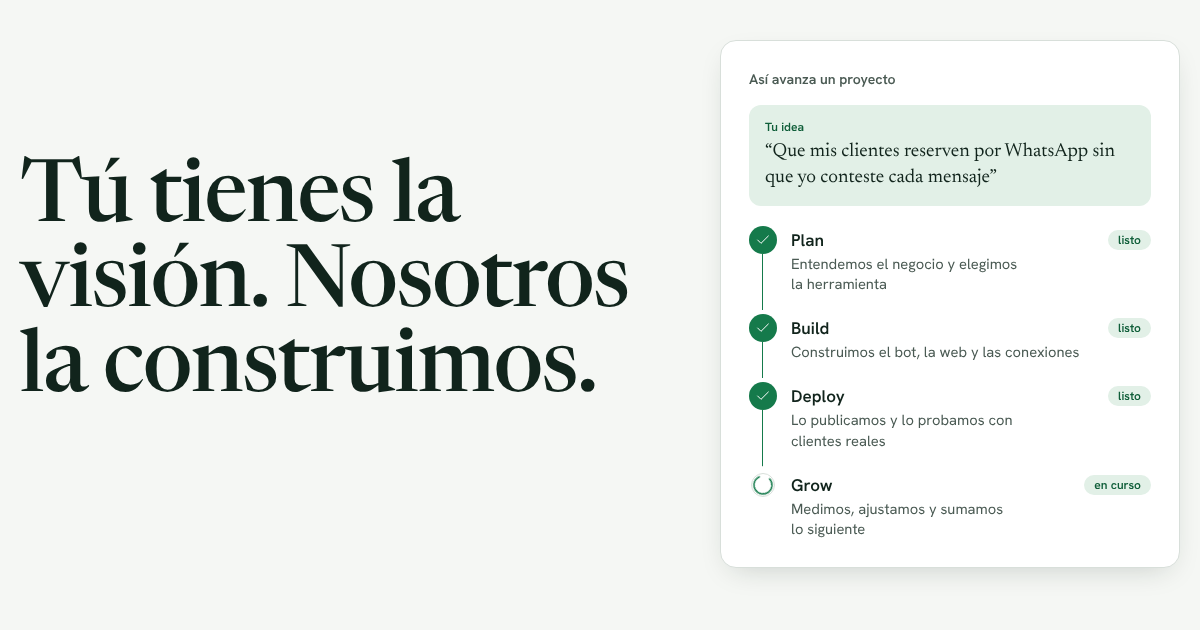
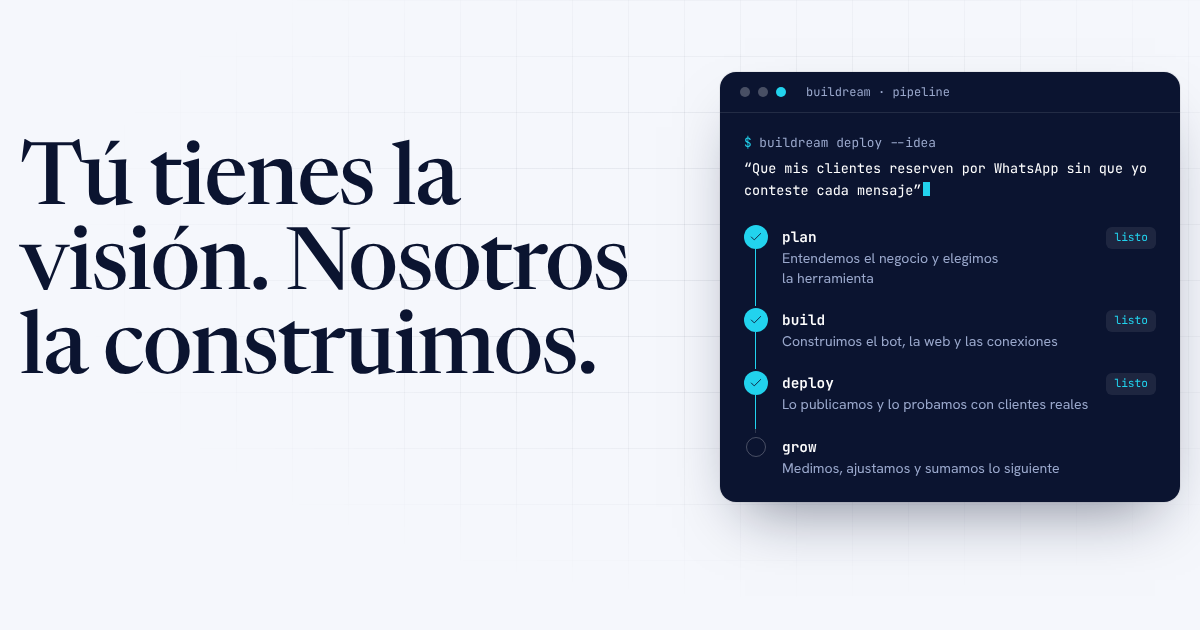
style: paleta Azul eléctrico (azul noche, azul eléctrico y cian)
Claude-Session: https://claude.ai/code/session_016B3hF799nehxMLRgw1vPta

diff --git a/src/styles/global.css b/src/styles/global.css
@@ -5,26 +5,26 @@
 
 /* Design tokens — see DESIGN.md */
 @theme {
-  --color-paper: #f5f7f4;
+  --color-paper: #f5f7fc;
   --color-surface: #ffffff;
-  --color-ink: #11241c;
-  --color-muted: #4a5a53;
-  --color-line: #d8dfda;
-  --color-accent: #157a4b;
-  --color-accent-strong: #0f5e39;
-  --color-accent-soft: #e2f0e7;
-  --color-band: #0f2a20;
-  --color-band-muted: #a9bdb3;
+  --color-ink: #0b1430;
+  --color-muted: #4a5878;
+  --color-line: #d9dfec;
+  --color-accent: #2f5bff;
+  --color-accent-strong: #1e3fd6;
+  --color-accent-soft: #e6ecff;
+  --color-band: #0b1430;
+  --color-band-muted: #9aa8cc;
 
   --font-display: 'Newsreader Variable', 'Iowan Old Style', Georgia, serif;
   --font-sans: 'Hanken Grotesk Variable', ui-sans-serif, system-ui, sans-serif;
   --font-mono: 'JetBrains Mono Variable', ui-monospace, 'Cascadia Code', monospace;
-  --color-signal: #4fd18b;
+  --color-signal: #22d3ee;
 
   --radius-control: 0.5rem;
   --radius-panel: 1rem;
 
-  --shadow-lift: 0 10px 30px -12px rgb(17 36 28 / 0.22);
+  --shadow-lift: 0 10px 30px -12px rgb(11 20 48 / 0.22);
   --ease-out-expo: cubic-bezier(0.16, 1, 0.3, 1);
 }
 
@@ -33,7 +33,7 @@
     scroll-behavior: smooth;
     scroll-padding-top: 5rem;
     -webkit-text-size-adjust: 100%;
-    scrollbar-color: #9fb1a8 var(--color-paper);
+    scrollbar-color: #a3afc9 var(--color-paper);
   }
   body {
     background: var(--color-paper);
@@ -54,7 +54,7 @@
     border-radius: 4px;
   }
   .on-band :focus-visible {
-    outline-color: #8fd6b0;
+    outline-color: #7dd3fc;
   }
   h1,
   h2,
@@ -124,7 +124,7 @@
   .btn-primary {
     background: var(--color-accent);
     color: #fff;
-    box-shadow: 0 6px 16px -8px rgb(21 122 75 / 0.6);
+    box-shadow: 0 6px 16px -8px rgb(47 91 255 / 0.55);
   }
   .btn-primary:hover {
     background: var(--color-accent-strong);

diff --git a/DESIGN.md b/DESIGN.md
@@ -4,24 +4,25 @@
 
 Buildream une **Build** (de CI/CD) con **Dream**. El sitio lo cuenta con un solo recurso: un **pipeline**. La idea del cliente entra y pasa por Plan → Build → Deploy → Grow, como un build que termina en verde. Ese pipeline aparece en el hero (el único momento animado), en la sección "Cómo trabajamos" y en los mini-diagramas de cada proyecto.
 
-El verde no es decorativo: es el verde de "build passed".
+El azul transmite confianza y tecnología; el cian de la terminal marca lo que está "vivo" (pasos completados, cursor, estados).
 
-## Color
+## Color — "Azul eléctrico"
 
 | Token | Hex | Uso |
 |---|---|---|
-| `paper` | `#F5F7F4` | Fondo general (blanco frío, no crema) |
+| `paper` | `#F5F7FC` | Fondo general (blanco frío) |
 | `surface` | `#FFFFFF` | Paneles, secciones alternas |
-| `ink` | `#11241C` | Texto principal (verde casi negro) |
-| `muted` | `#4A5A53` | Texto secundario (contraste AA sobre paper) |
-| `line` | `#D8DFDA` | Divisores de 1px, bordes |
-| `accent` | `#157A4B` | Botón primario, checks, iconos |
-| `accent-strong` | `#0F5E39` | Hover, enlaces de texto |
-| `accent-soft` | `#E2F0E7` | Fondos de etiquetas e iconos |
-| `band` | `#0F2A20` | Banda oscura del stack y footer |
-| `band-muted` | `#A9BDB3` | Texto secundario sobre band |
+| `ink` | `#0B1430` | Texto principal (azul noche) |
+| `muted` | `#4A5878` | Texto secundario |
+| `line` | `#D9DFEC` | Divisores de 1px, bordes |
+| `accent` | `#2F5BFF` | Botón primario, checks, iconos |
+| `accent-strong` | `#1E3FD6` | Hover, enlaces de texto |
+| `accent-soft` | `#E6ECFF` | Fondos de etiquetas e iconos |
+| `band` | `#0B1430` | Terminales, banda del stack y footer |
+| `band-muted` | `#9AA8CC` | Texto secundario sobre band |
+| `signal` | `#22D3EE` | Cian de la terminal: checks, cursor, estados |
 
-Sin violeta propio. Los logos de terceros conservan sus colores; los muy oscuros se pasan a blanco sobre la banda.
+Los logos de terceros conservan sus colores; los muy oscuros se pasan a blanco sobre la banda.
 
 ## Tipografía
 
